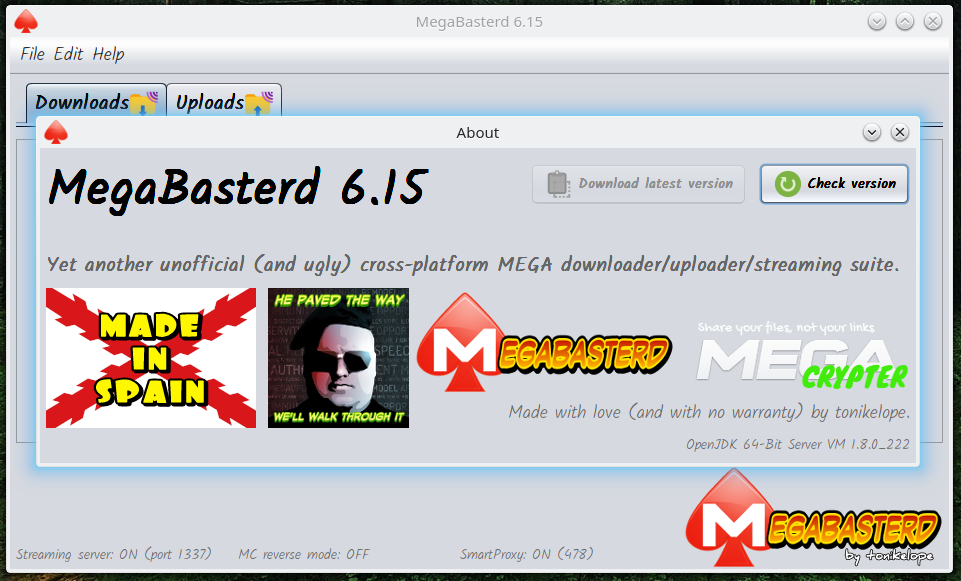
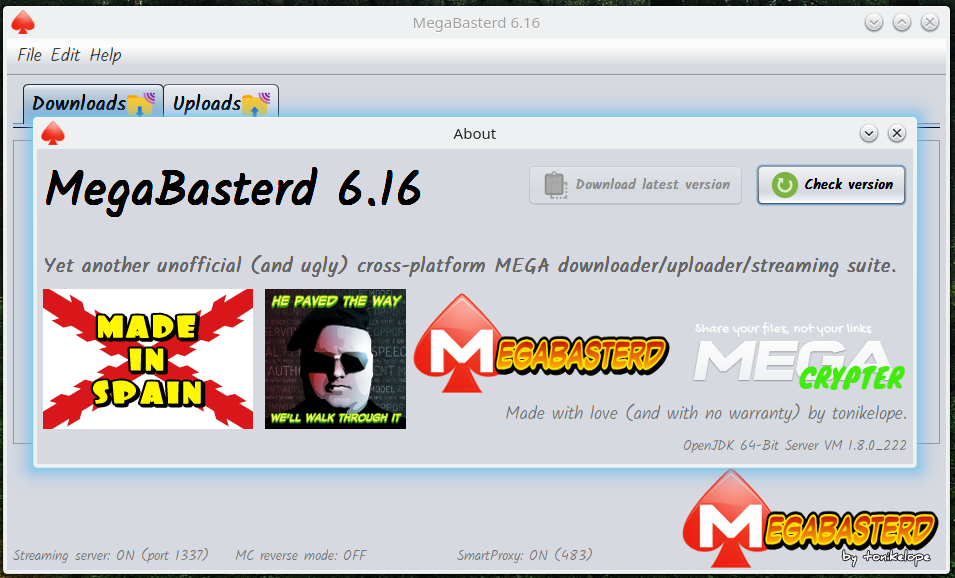
6.16
-More SmartProxy tunning

diff --git a/src/main/java/com/tonikelope/megabasterd/ChunkDownloader.java b/src/main/java/com/tonikelope/megabasterd/ChunkDownloader.java
@@ -2,7 +2,6 @@ package com.tonikelope.megabasterd;
 
 import static com.tonikelope.megabasterd.MainPanel.*;
 import static com.tonikelope.megabasterd.MiscTools.*;
-import java.awt.Color;
 import java.io.File;
 import java.io.FileOutputStream;
 import java.io.IOException;
@@ -28,6 +27,7 @@ public class ChunkDownloader implements Runnable, SecureSingleThreadNotifiable {
     private final Object _secure_notify_lock;
     private volatile boolean _error_wait;
     private boolean _notified;
+    private String _current_smart_proxy;
 
     public ChunkDownloader(int id, Download download) {
         _notified = false;
@@ -35,8 +35,13 @@ public class ChunkDownloader implements Runnable, SecureSingleThreadNotifiable {
         _secure_notify_lock = new Object();
         _id = id;
         _download = download;
+        _current_smart_proxy = null;
         _error_wait = false;
 
+    }
+
+    public String getCurrent_smart_proxy() {
+        return _current_smart_proxy;
     }
 
     public void setExit(boolean exit) {
@@ -104,7 +109,7 @@ public class ChunkDownloader implements Runnable, SecureSingleThreadNotifiable {
 
             boolean timeout = false, chunk_error = false, slow_proxy = false;
 
-            String worker_url = null, current_smart_proxy = null;
+            String worker_url = null;
 
             long init_chunk_time = -1, finish_chunk_time = -1, pause_init_time, paused = 0L;
 
@@ -127,29 +132,27 @@ public class ChunkDownloader implements Runnable, SecureSingleThreadNotifiable {
 
                 String chunk_url = ChunkManager.genChunkUrl(worker_url, _download.getFile_size(), chunk_offset, chunk_size);
 
-                if ((http_error == 509 || slow_proxy || (chunk_error && current_smart_proxy != null)) && MainPanel.isUse_smart_proxy() && !MainPanel.isUse_proxy()) {
+                if ((http_error == 509 || slow_proxy || (chunk_error && _current_smart_proxy != null)) && MainPanel.isUse_smart_proxy() && !MainPanel.isUse_proxy()) {
 
-                    if (current_smart_proxy != null) {
+                    if (_current_smart_proxy != null) {
 
-                        proxy_manager.blockProxy(current_smart_proxy);
+                        proxy_manager.blockProxy(_current_smart_proxy);
 
-                        Logger.getLogger(MiscTools.class.getName()).log(Level.WARNING, "{0}: worker {1} excluding proxy -> {2}", new Object[]{Thread.currentThread().getName(), _id, current_smart_proxy});
+                        Logger.getLogger(MiscTools.class.getName()).log(Level.WARNING, "{0}: worker {1} excluding proxy -> {2}", new Object[]{Thread.currentThread().getName(), _id, _current_smart_proxy});
 
                     }
 
-                    current_smart_proxy = proxy_manager.getFastestProxy();
+                    _current_smart_proxy = proxy_manager.getFastestProxy();
 
-                    if (current_smart_proxy != null) {
+                    if (_current_smart_proxy != null) {
 
-                        String[] proxy_info = current_smart_proxy.split(":");
+                        String[] proxy_info = _current_smart_proxy.split(":");
 
                         Proxy proxy = new Proxy(Proxy.Type.HTTP, new InetSocketAddress(proxy_info[0], Integer.parseInt(proxy_info[1])));
 
                         URL url = new URL(chunk_url);
 
                         con = (HttpURLConnection) url.openConnection(proxy);
-
-                        getDownload().getView().getSpeed_label().setForeground(new Color(255, 102, 0));
 
                         getDownload().enableProxyTurboMode();
 
@@ -166,6 +169,8 @@ public class ChunkDownloader implements Runnable, SecureSingleThreadNotifiable {
 
                     if (MainPanel.isUse_proxy()) {
 
+                        _current_smart_proxy = null;
+
                         con = (HttpURLConnection) url.openConnection(new Proxy(Proxy.Type.HTTP, new InetSocketAddress(MainPanel.getProxy_host(), MainPanel.getProxy_port())));
 
                         if (MainPanel.getProxy_user() != null && !"".equals(MainPanel.getProxy_user())) {
@@ -175,13 +180,22 @@ public class ChunkDownloader implements Runnable, SecureSingleThreadNotifiable {
 
                     } else {
 
-                        con = (HttpURLConnection) url.openConnection();
-                    }
+                        if (_current_smart_proxy != null) {
 
-                    current_smart_proxy = null;
+                            String[] proxy_info = _current_smart_proxy.split(":");
+
+                            Proxy proxy = new Proxy(Proxy.Type.HTTP, new InetSocketAddress(proxy_info[0], Integer.parseInt(proxy_info[1])));
+
+                            con = (HttpURLConnection) url.openConnection(proxy);
+
+                        } else {
+                            con = (HttpURLConnection) url.openConnection();
+                        }
+
+                    }
                 }
 
-                if (current_smart_proxy != null) {
+                if (_current_smart_proxy != null) {
                     con.setConnectTimeout(Download.HTTP_PROXY_TIMEOUT);
                     con.setReadTimeout(Download.HTTP_PROXY_TIMEOUT);
                 } else {
@@ -216,10 +230,6 @@ public class ChunkDownloader implements Runnable, SecureSingleThreadNotifiable {
                             Logger.getLogger(getClass().getName()).log(Level.INFO, "{0} Worker [{1}] Failed chunk download : HTTP error code : {2}", new Object[]{Thread.currentThread().getName(), _id, http_status});
 
                             http_error = http_status;
-
-                            if (http_error == 509 && MainPanel.isUse_smart_proxy()) {
-                                getDownload().getView().set509Error();
-                            }
 
                         } else {
 
@@ -298,7 +308,7 @@ public class ChunkDownloader implements Runnable, SecureSingleThreadNotifiable {
 
                             http_error = 0;
 
-                            if (current_smart_proxy != null) {
+                            if (_current_smart_proxy != null) {
 
                                 //Update average chunk download speed using SmartProxy
                                 long chunk_speed = Math.round(chunk_size / (((double) (finish_chunk_time - init_chunk_time - paused)) / 1000));
@@ -312,7 +322,7 @@ public class ChunkDownloader implements Runnable, SecureSingleThreadNotifiable {
 
                                     if (chunk_speed < Math.round(avg_chunk_speed * SLOW_PROXY_PERC)) {
 
-                                        Logger.getLogger(getClass().getName()).log(Level.INFO, "{0} Worker [{1}] WARNING -> PROXY {2} CHUNK DOWNLOAD SPEED: {3}/s SEEMS TO BE SLOW (average is {4}/s)", new Object[]{Thread.currentThread().getName(), _id, current_smart_proxy, formatBytes(chunk_speed), formatBytes(avg_chunk_speed)});
+                                        Logger.getLogger(getClass().getName()).log(Level.INFO, "{0} Worker [{1}] WARNING -> PROXY {2} CHUNK DOWNLOAD SPEED: {3}/s SEEMS TO BE SLOW (average is {4}/s)", new Object[]{Thread.currentThread().getName(), _id, _current_smart_proxy, formatBytes(chunk_speed), formatBytes(avg_chunk_speed)});
 
                                         slow_proxy = true;
                                     }
@@ -352,7 +362,7 @@ public class ChunkDownloader implements Runnable, SecureSingleThreadNotifiable {
                             _download.getProgress_meter().secureNotify();
                         }
 
-                        if (!_exit && !_download.isStopped() && !timeout && (http_error != 509 || current_smart_proxy != null) && http_error != 403) {
+                        if (!_exit && !_download.isStopped() && !timeout && (http_error != 509 || _current_smart_proxy != null) && http_error != 403) {
 
                             _error_wait = true;
 

diff --git a/src/main/java/com/tonikelope/megabasterd/Download.java b/src/main/java/com/tonikelope/megabasterd/Download.java
@@ -4,6 +4,7 @@ import static com.tonikelope.megabasterd.CryptTools.*;
 import static com.tonikelope.megabasterd.DBTools.*;
 import static com.tonikelope.megabasterd.MainPanel.*;
 import static com.tonikelope.megabasterd.MiscTools.*;
+import java.awt.Color;
 import java.io.BufferedInputStream;
 import java.io.BufferedOutputStream;
 import java.io.File;
@@ -92,8 +93,6 @@ public final class Download implements Transference, Runnable, SecureSingleThrea
     private long _last_chunk_id_dispatched;
     private final MegaAPI _ma;
     private volatile boolean _canceled;
-    private volatile boolean _error509;
-    private volatile boolean _turbo_proxy_mode;
 
     public Download(MainPanel main_panel, MegaAPI ma, String url, String download_path, String file_name, String file_key, Long file_size, String file_pass, String file_noexpire, boolean use_slots, boolean restart, String custom_chunks_dir) {
 
@@ -121,8 +120,6 @@ public final class Download implements Transference, Runnable, SecureSingleThrea
         _file_pass = file_pass;
         _file_noexpire = file_noexpire;
         _use_slots = use_slots;
-        _error509 = false;
-        _turbo_proxy_mode = false;
         _restart = restart;
         _secure_notify_lock = new Object();
         _workers_lock = new Object();
@@ -207,9 +204,7 @@ public final class Download implements Transference, Runnable, SecureSingleThrea
 
         synchronized (_turbo_proxy_lock) {
 
-            if (!_turbo_proxy_mode) {
-
-                _turbo_proxy_mode = true;
+            if (getChunkworkers().size() < Transference.MAX_WORKERS) {
 
                 Download tthis = this;
 
@@ -219,6 +214,8 @@ public final class Download implements Transference, Runnable, SecureSingleThrea
                     public void run() {
 
                         synchronized (_workers_lock) {
+
+                            getView().getSpeed_label().setForeground(Color.BLACK);
 
                             getView().getSlots_spinner().setEnabled(false);
 
@@ -243,14 +240,6 @@ public final class Download implements Transference, Runnable, SecureSingleThrea
 
     public ConcurrentLinkedQueue<Long> getRejectedChunkIds() {
         return _rejectedChunkIds;
-    }
-
-    public boolean isError509() {
-        return _error509;
-    }
-
-    public void setError509(boolean error509) {
-        _error509 = error509;
     }
 
     public Object getWorkers_lock() {

diff --git a/src/main/java/com/tonikelope/megabasterd/SpeedMeter.java b/src/main/java/com/tonikelope/megabasterd/SpeedMeter.java
@@ -139,7 +139,7 @@ public final class SpeedMeter implements Runnable {
 
             no_data_count = 0;
 
-        } else if (transference instanceof Download && ((Download) transference).isError509()) {
+        } else if (transference instanceof Download) {
 
             sp = -1;
 
@@ -193,13 +193,10 @@ public final class SpeedMeter implements Runnable {
 
                             trans_info.getKey().getView().updateSpeed(formatBytes(trans_sp) + "/s", true);
 
-                        } else if (trans_sp == 0) {
+                        } else {
 
                             trans_info.getKey().getView().updateSpeed("------", true);
 
-                        } else {
-
-                            trans_info.getKey().getView().updateSpeed("BANDWIDTH LIMIT ERROR!", true);
                         }
                     }
 

diff --git a/src/main/java/com/tonikelope/megabasterd/StreamChunkDownloader.java b/src/main/java/com/tonikelope/megabasterd/StreamChunkDownloader.java
@@ -112,7 +112,17 @@ public class StreamChunkDownloader implements Runnable {
                             }
                         } else {
 
-                            con = (HttpURLConnection) chunk_url.openConnection();
+                            if (current_smart_proxy != null) {
+
+                                String[] proxy_info = current_smart_proxy.split(":");
+
+                                Proxy proxy = new Proxy(Proxy.Type.HTTP, new InetSocketAddress(proxy_info[0], Integer.parseInt(proxy_info[1])));
+
+                                con = (HttpURLConnection) chunk_url.openConnection(proxy);
+
+                            } else {
+                                con = (HttpURLConnection) chunk_url.openConnection();
+                            }
                         }
                     }
 

diff --git a/src/main/java/com/tonikelope/megabasterd/DownloadView.java b/src/main/java/com/tonikelope/megabasterd/DownloadView.java
@@ -621,18 +621,6 @@ public final class DownloadView extends javax.swing.JPanel implements Transferen
         });
     }
 
-    public void set509Error() {
-
-        if (!_download.isError509()) {
-
-            _download.setError509(true);
-
-            speed_label.setIcon(new javax.swing.ImageIcon(getClass().getResource("/images/icons8-error-40.png")));
-
-        }
-
-    }
-
     // Variables declaration - do not modify//GEN-BEGIN:variables
     private javax.swing.JButton close_button;
     private javax.swing.JButton copy_link_button;

diff --git a/src/main/java/com/tonikelope/megabasterd/SmartMegaProxyManager.java b/src/main/java/com/tonikelope/megabasterd/SmartMegaProxyManager.java
@@ -19,7 +19,7 @@ import java.util.logging.Logger;
 public final class SmartMegaProxyManager {
 
     public static String DEFAULT_SMART_PROXY_URL = "https://raw.githubusercontent.com/tonikelope/megabasterd/proxy_list/proxy_list.txt";
-    public static final int BLOCK_TIME = 60;
+    public static final int BLOCK_TIME = 120;
     private volatile String _proxy_list_url;
     private final LinkedHashMap<String, Long> _proxy_list;
     private final MainPanel _main_panel;

diff --git a/src/main/java/com/tonikelope/megabasterd/ChunkDownloaderMono.java b/src/main/java/com/tonikelope/megabasterd/ChunkDownloaderMono.java
@@ -102,12 +102,6 @@ public class ChunkDownloaderMono extends ChunkDownloader {
 
                         http_error = http_status;
 
-                        if (http_error == 509) {
-
-                            getDownload().getView().set509Error();
-
-                        }
-
                         getDownload().rejectChunkId(chunk_id);
 
                         conta_error++;

diff --git a/src/main/java/com/tonikelope/megabasterd/MainPanel.java b/src/main/java/com/tonikelope/megabasterd/MainPanel.java
@@ -50,7 +50,7 @@ import javax.swing.UIManager;
  */
 public final class MainPanel {
 
-    public static final String VERSION = "6.15";
+    public static final String VERSION = "6.16";
     public static final int THROTTLE_SLICE_SIZE = 16 * 1024;
     public static final int DEFAULT_BYTE_BUFFER_SIZE = 16 * 1024;
     public static final int STREAMER_PORT = 1337;
